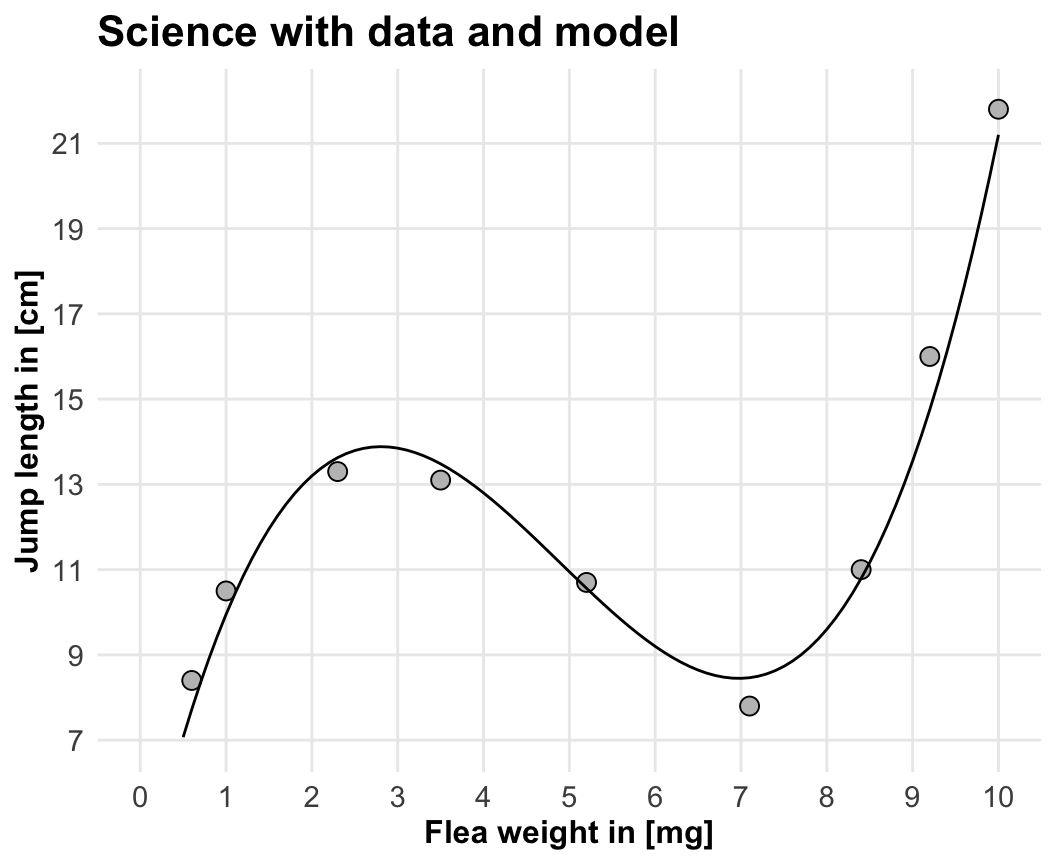
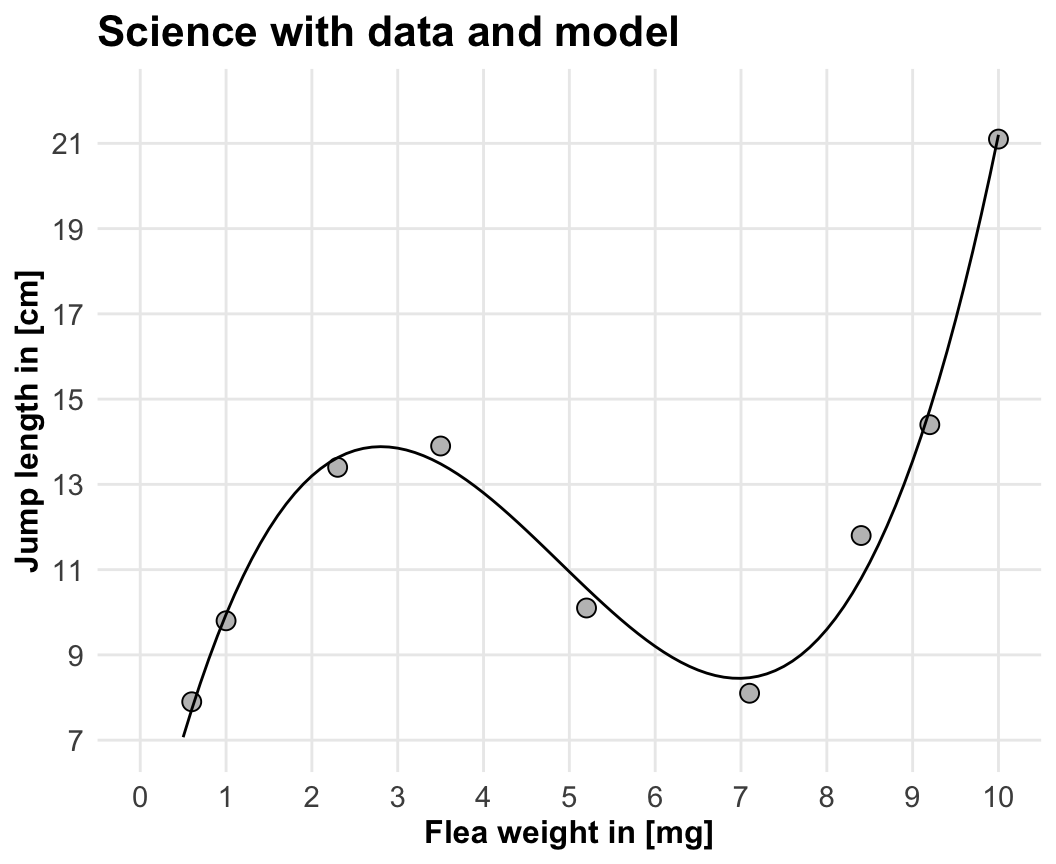
added

diff --git a/docs/chapter-02-what-is-data.html b/docs/chapter-02-what-is-data.html
@@ -301,7 +301,7 @@ window.Quarto = {
 </header>
 
 
-<p><em>Last modified on 27. October 2025 at 20:59:37</em></p>
+<p><em>Last modified on 28. October 2025 at 08:27:55</em></p>
 <blockquote class="blockquote">
 <p><em>“The limits of my language mean the limits of my world.” — Ludwig Wittgenstein</em></p>
 </blockquote>
@@ -377,8 +377,14 @@ Table&nbsp;2.1: Table of terms used in the statistical modelling. The terms in b
 <tr class="even">
 <td style="text-align: left;">Categorical <span class="math inline">\(x\)</span></td>
 <td style="text-align: center;"><span class="math inline">\(f_A\)</span></td>
-<td style="text-align: left;"><strong>factor A with levels A.1 to A.j</strong>, factorial variable, categorical variable</td>
+<td style="text-align: left;"><strong>factor A</strong>, factorial variable, categorical variable</td>
 <td style="text-align: left;"><em>The influencer is discrete, functioning as a grouping variable, such as an experimental group or a treatment.</em></td>
+</tr>
+<tr class="odd">
+<td style="text-align: left;">Categorical <span class="math inline">\(x\)</span></td>
+<td style="text-align: center;"><span class="math inline">\(A.1\)</span> to <span class="math inline">\(A.j\)</span></td>
+<td style="text-align: left;"><strong>levels</strong>, groups, treatment groups</td>
+<td style="text-align: left;"><em>The discrete groups included in one factor A.</em></td>
 </tr>
 </tbody>
 </table>
@@ -419,39 +425,39 @@ Table&nbsp;2.2: foo.
 <tbody>
 <tr class="odd">
 <td style="text-align: center;">0.6</td>
-<td style="text-align: center;">8.4</td>
+<td style="text-align: center;">7.9</td>
 </tr>
 <tr class="even">
 <td style="text-align: center;">1.0</td>
-<td style="text-align: center;">10.5</td>
+<td style="text-align: center;">9.8</td>
 </tr>
 <tr class="odd">
 <td style="text-align: center;">2.3</td>
-<td style="text-align: center;">13.3</td>
+<td style="text-align: center;">13.4</td>
 </tr>
 <tr class="even">
 <td style="text-align: center;">3.5</td>
-<td style="text-align: center;">13.1</td>
+<td style="text-align: center;">13.9</td>
 </tr>
 <tr class="odd">
 <td style="text-align: center;">5.2</td>
-<td style="text-align: center;">10.7</td>
+<td style="text-align: center;">10.1</td>
 </tr>
 <tr class="even">
 <td style="text-align: center;">7.1</td>
-<td style="text-align: center;">7.8</td>
+<td style="text-align: center;">8.1</td>
 </tr>
 <tr class="odd">
 <td style="text-align: center;">8.4</td>
-<td style="text-align: center;">11.0</td>
+<td style="text-align: center;">11.8</td>
 </tr>
 <tr class="even">
 <td style="text-align: center;">9.2</td>
-<td style="text-align: center;">16.0</td>
+<td style="text-align: center;">14.4</td>
 </tr>
 <tr class="odd">
 <td style="text-align: center;">10.0</td>
-<td style="text-align: center;">21.8</td>
+<td style="text-align: center;">21.1</td>
 </tr>
 </tbody>
 </table>
@@ -1060,119 +1066,120 @@ Figure&nbsp;2.2: foo.
 <span id="cb2-32"><a href="#cb2-32" aria-hidden="true" tabindex="-1"></a><span class="pp">|</span> Prediction <span class="pp">|</span> $x$ <span class="pp">|</span> **predictor**, predictive variable <span class="pp">|</span> *The influencer is used to predict the outcome.* <span class="pp">|</span></span>
 <span id="cb2-33"><a href="#cb2-33" aria-hidden="true" tabindex="-1"></a><span class="pp">|</span> Main effect <span class="pp">|</span> $x$ <span class="pp">|</span> **focal explanator**, **focal predictor**, focal variable <span class="pp">|</span> *In a model with multiple influencers, the focal variable is the variable of primary interest.* <span class="pp">|</span></span>
 <span id="cb2-34"><a href="#cb2-34" aria-hidden="true" tabindex="-1"></a><span class="pp">|</span> Continuous $x$ <span class="pp">|</span> $c$ <span class="pp">|</span> **covariate**, covariable <span class="pp">|</span> *The influencer is a numeric variable with continuous values.* <span class="pp">|</span></span>
-<span id="cb2-35"><a href="#cb2-35" aria-hidden="true" tabindex="-1"></a><span class="pp">|</span> Categorical $x$ <span class="pp">|</span> $f_A$ <span class="pp">|</span> **factor A with levels A.1 to A.j**, factorial variable, categorical variable <span class="pp">|</span> *The influencer is discrete, functioning as a grouping variable, such as an experimental group or a treatment.*  <span class="pp">|</span></span>
-<span id="cb2-36"><a href="#cb2-36" aria-hidden="true" tabindex="-1"></a></span>
-<span id="cb2-37"><a href="#cb2-37" aria-hidden="true" tabindex="-1"></a>: Table of terms used in the statistical modelling. The terms in bold are used here. Depending on the scientific background, the usage of these terms can vary widely.  {#tbl-names-regression tbl-colwidths="$$20, 5, 30, 45$$"}</span>
-<span id="cb2-38"><a href="#cb2-38" aria-hidden="true" tabindex="-1"></a></span>
-<span id="cb2-39"><a href="#cb2-39" aria-hidden="true" tabindex="-1"></a>A sentence why we use $y$ and not $x$ for mean and other stuff.</span>
-<span id="cb2-40"><a href="#cb2-40" aria-hidden="true" tabindex="-1"></a></span>
-<span id="cb2-41"><a href="#cb2-41" aria-hidden="true" tabindex="-1"></a><span class="fu">## R packages used</span></span>
-<span id="cb2-42"><a href="#cb2-42" aria-hidden="true" tabindex="-1"></a></span>
-<span id="cb2-43"><a href="#cb2-43" aria-hidden="true" tabindex="-1"></a><span class="fu">## Data</span></span>
-<span id="cb2-44"><a href="#cb2-44" aria-hidden="true" tabindex="-1"></a></span>
-<span id="cb2-47"><a href="#cb2-47" aria-hidden="true" tabindex="-1"></a><span class="in">```{r}</span></span>
-<span id="cb2-48"><a href="#cb2-48" aria-hidden="true" tabindex="-1"></a>jump_weight_tbl <span class="ot">&lt;-</span> <span class="fu">tibble</span>(<span class="at">x =</span> <span class="fu">c</span>(<span class="fl">0.6</span>, <span class="dv">1</span>, <span class="fl">2.3</span>, <span class="fl">3.5</span>, <span class="fl">5.2</span>, <span class="fl">7.1</span>, <span class="fl">8.4</span>, <span class="fl">9.2</span>, <span class="dv">10</span>),</span>
-<span id="cb2-49"><a href="#cb2-49" aria-hidden="true" tabindex="-1"></a>                          <span class="at">y =</span> <span class="fl">0.15</span><span class="sc">*</span>x<span class="sc">^</span><span class="dv">3</span> <span class="sc">-</span> <span class="fl">2.2</span><span class="sc">*</span>x<span class="sc">^</span><span class="dv">2</span> <span class="sc">+</span> <span class="fl">8.8</span><span class="sc">*</span>x <span class="sc">+</span> <span class="fl">3.2</span> <span class="sc">+</span> <span class="fu">rnorm</span>(<span class="dv">9</span>, <span class="dv">0</span>, <span class="fl">0.5</span>)) <span class="sc">|&gt;</span></span>
-<span id="cb2-50"><a href="#cb2-50" aria-hidden="true" tabindex="-1"></a>  <span class="fu">mutate_all</span>(round, <span class="dv">1</span>) <span class="sc">|&gt;</span> </span>
-<span id="cb2-51"><a href="#cb2-51" aria-hidden="true" tabindex="-1"></a>  <span class="fu">rename</span>(<span class="at">weight_mg =</span> x, <span class="at">jump_length_cm =</span> y)</span>
-<span id="cb2-52"><a href="#cb2-52" aria-hidden="true" tabindex="-1"></a><span class="in">```</span></span>
-<span id="cb2-53"><a href="#cb2-53" aria-hidden="true" tabindex="-1"></a></span>
-<span id="cb2-56"><a href="#cb2-56" aria-hidden="true" tabindex="-1"></a><span class="in">```{r}</span></span>
-<span id="cb2-57"><a href="#cb2-57" aria-hidden="true" tabindex="-1"></a><span class="co">#| echo: false</span></span>
-<span id="cb2-58"><a href="#cb2-58" aria-hidden="true" tabindex="-1"></a><span class="co">#| message: false</span></span>
-<span id="cb2-59"><a href="#cb2-59" aria-hidden="true" tabindex="-1"></a><span class="co">#| warning: false</span></span>
-<span id="cb2-60"><a href="#cb2-60" aria-hidden="true" tabindex="-1"></a><span class="co">#| label: tbl-02-jump-weight</span></span>
-<span id="cb2-61"><a href="#cb2-61" aria-hidden="true" tabindex="-1"></a><span class="co">#| tbl-cap: "foo."</span></span>
-<span id="cb2-62"><a href="#cb2-62" aria-hidden="true" tabindex="-1"></a></span>
-<span id="cb2-63"><a href="#cb2-63" aria-hidden="true" tabindex="-1"></a>jump_weight_tbl<span class="sc">|&gt;</span> </span>
-<span id="cb2-64"><a href="#cb2-64" aria-hidden="true" tabindex="-1"></a>  <span class="fu">kable</span>(<span class="at">align =</span> <span class="st">"c"</span>, <span class="st">"pipe"</span>)</span>
-<span id="cb2-65"><a href="#cb2-65" aria-hidden="true" tabindex="-1"></a><span class="in">```</span></span>
-<span id="cb2-66"><a href="#cb2-66" aria-hidden="true" tabindex="-1"></a></span>
-<span id="cb2-67"><a href="#cb2-67" aria-hidden="true" tabindex="-1"></a>@eq-jump-weight</span>
-<span id="cb2-68"><a href="#cb2-68" aria-hidden="true" tabindex="-1"></a></span>
-<span id="cb2-69"><a href="#cb2-69" aria-hidden="true" tabindex="-1"></a>$$</span>
-<span id="cb2-70"><a href="#cb2-70" aria-hidden="true" tabindex="-1"></a>y = 0.15\cdot x^3 - 2.2\cdot x^2 + 8.8 \cdot x + 3.2</span>
-<span id="cb2-71"><a href="#cb2-71" aria-hidden="true" tabindex="-1"></a>$$ {#eq-jump-weight}</span>
-<span id="cb2-72"><a href="#cb2-72" aria-hidden="true" tabindex="-1"></a></span>
-<span id="cb2-75"><a href="#cb2-75" aria-hidden="true" tabindex="-1"></a><span class="in">```{r}</span></span>
-<span id="cb2-76"><a href="#cb2-76" aria-hidden="true" tabindex="-1"></a><span class="co">#| message: false</span></span>
-<span id="cb2-77"><a href="#cb2-77" aria-hidden="true" tabindex="-1"></a><span class="co">#| echo: false</span></span>
-<span id="cb2-78"><a href="#cb2-78" aria-hidden="true" tabindex="-1"></a><span class="co">#| warning: false</span></span>
-<span id="cb2-79"><a href="#cb2-79" aria-hidden="true" tabindex="-1"></a><span class="co">#| fig-align: center</span></span>
-<span id="cb2-80"><a href="#cb2-80" aria-hidden="true" tabindex="-1"></a><span class="co">#| fig-height: 4</span></span>
-<span id="cb2-81"><a href="#cb2-81" aria-hidden="true" tabindex="-1"></a><span class="co">#| fig-width: 10</span></span>
-<span id="cb2-82"><a href="#cb2-82" aria-hidden="true" tabindex="-1"></a><span class="co">#| fig-cap: "foo."</span></span>
-<span id="cb2-83"><a href="#cb2-83" aria-hidden="true" tabindex="-1"></a><span class="co">#| label: fig-02-science-to-model</span></span>
-<span id="cb2-84"><a href="#cb2-84" aria-hidden="true" tabindex="-1"></a></span>
-<span id="cb2-85"><a href="#cb2-85" aria-hidden="true" tabindex="-1"></a>p1 <span class="ot">&lt;-</span> <span class="fu">ggplot</span>(jump_weight_tbl, <span class="fu">aes</span>(<span class="at">x =</span> weight_mg, <span class="at">y =</span> jump_length_cm)) <span class="sc">+</span></span>
-<span id="cb2-86"><a href="#cb2-86" aria-hidden="true" tabindex="-1"></a>  <span class="fu">theme_book</span>() <span class="sc">+</span></span>
-<span id="cb2-87"><a href="#cb2-87" aria-hidden="true" tabindex="-1"></a>  <span class="fu">scale_x_continuous</span>(<span class="at">breaks =</span> <span class="dv">0</span><span class="sc">:</span><span class="dv">10</span>, <span class="at">limits =</span> <span class="fu">c</span>(<span class="dv">0</span>, <span class="dv">10</span>)) <span class="sc">+</span></span>
-<span id="cb2-88"><a href="#cb2-88" aria-hidden="true" tabindex="-1"></a>  <span class="fu">scale_y_continuous</span>(<span class="at">breaks =</span> <span class="fu">seq</span>(<span class="dv">7</span>, <span class="dv">21</span>, <span class="dv">2</span>), <span class="at">limits =</span> <span class="fu">c</span>(<span class="dv">7</span>, <span class="dv">22</span>)) <span class="sc">+</span></span>
-<span id="cb2-89"><a href="#cb2-89" aria-hidden="true" tabindex="-1"></a>  <span class="fu">labs</span>(<span class="at">x =</span> <span class="st">"Flea weight in [mg]"</span>, <span class="at">y =</span> <span class="st">"Jump length in [cm]"</span>,</span>
-<span id="cb2-90"><a href="#cb2-90" aria-hidden="true" tabindex="-1"></a>       <span class="at">title =</span> <span class="st">"Science"</span>) <span class="sc">+</span></span>
-<span id="cb2-91"><a href="#cb2-91" aria-hidden="true" tabindex="-1"></a>  <span class="fu">theme</span>(<span class="at">axis.text =</span> <span class="fu">element_blank</span>())</span>
-<span id="cb2-92"><a href="#cb2-92" aria-hidden="true" tabindex="-1"></a></span>
-<span id="cb2-93"><a href="#cb2-93" aria-hidden="true" tabindex="-1"></a>p2 <span class="ot">&lt;-</span> <span class="fu">ggplot</span>(jump_weight_tbl, <span class="fu">aes</span>(<span class="at">x =</span> weight_mg, <span class="at">y =</span> jump_length_cm)) <span class="sc">+</span></span>
-<span id="cb2-94"><a href="#cb2-94" aria-hidden="true" tabindex="-1"></a>  <span class="fu">theme_book</span>() <span class="sc">+</span></span>
-<span id="cb2-95"><a href="#cb2-95" aria-hidden="true" tabindex="-1"></a>  <span class="fu">geom_point</span>() <span class="sc">+</span></span>
-<span id="cb2-96"><a href="#cb2-96" aria-hidden="true" tabindex="-1"></a>  <span class="fu">scale_x_continuous</span>(<span class="at">breaks =</span> <span class="dv">0</span><span class="sc">:</span><span class="dv">10</span>, <span class="at">limits =</span> <span class="fu">c</span>(<span class="dv">0</span>, <span class="dv">10</span>)) <span class="sc">+</span></span>
-<span id="cb2-97"><a href="#cb2-97" aria-hidden="true" tabindex="-1"></a>  <span class="fu">scale_y_continuous</span>(<span class="at">breaks =</span> <span class="fu">seq</span>(<span class="dv">7</span>, <span class="dv">21</span>, <span class="dv">2</span>), <span class="at">limits =</span> <span class="fu">c</span>(<span class="dv">7</span>, <span class="dv">22</span>)) <span class="sc">+</span></span>
-<span id="cb2-98"><a href="#cb2-98" aria-hidden="true" tabindex="-1"></a>  <span class="fu">labs</span>(<span class="at">x =</span> <span class="st">"weight_mg"</span>, <span class="at">y =</span> <span class="st">"jump_length_cm"</span>,</span>
-<span id="cb2-99"><a href="#cb2-99" aria-hidden="true" tabindex="-1"></a>       <span class="at">title =</span> <span class="st">"Data"</span>)</span>
-<span id="cb2-100"><a href="#cb2-100" aria-hidden="true" tabindex="-1"></a></span>
-<span id="cb2-101"><a href="#cb2-101" aria-hidden="true" tabindex="-1"></a>p3 <span class="ot">&lt;-</span> <span class="fu">ggplot</span>(jump_weight_tbl, <span class="fu">aes</span>(<span class="at">x =</span> weight_mg, <span class="at">y =</span> jump_length_cm)) <span class="sc">+</span></span>
-<span id="cb2-102"><a href="#cb2-102" aria-hidden="true" tabindex="-1"></a>  <span class="fu">theme_book</span>() <span class="sc">+</span></span>
-<span id="cb2-103"><a href="#cb2-103" aria-hidden="true" tabindex="-1"></a>  <span class="fu">geom_function</span>(<span class="at">fun =</span> \(x) <span class="fl">0.15</span><span class="sc">*</span>x<span class="sc">^</span><span class="dv">3</span> <span class="sc">-</span> <span class="fl">2.2</span><span class="sc">*</span>x<span class="sc">^</span><span class="dv">2</span> <span class="sc">+</span> <span class="fl">8.8</span><span class="sc">*</span>x <span class="sc">+</span> <span class="fl">3.2</span>,</span>
-<span id="cb2-104"><a href="#cb2-104" aria-hidden="true" tabindex="-1"></a>                <span class="at">size =</span> <span class="dv">1</span>) <span class="sc">+</span></span>
-<span id="cb2-105"><a href="#cb2-105" aria-hidden="true" tabindex="-1"></a>  <span class="fu">scale_x_continuous</span>(<span class="at">breaks =</span> <span class="dv">0</span><span class="sc">:</span><span class="dv">10</span>, <span class="at">limits =</span> <span class="fu">c</span>(<span class="dv">0</span>, <span class="dv">10</span>)) <span class="sc">+</span></span>
-<span id="cb2-106"><a href="#cb2-106" aria-hidden="true" tabindex="-1"></a>  <span class="fu">scale_y_continuous</span>(<span class="at">breaks =</span> <span class="fu">seq</span>(<span class="dv">7</span>, <span class="dv">21</span>, <span class="dv">2</span>), <span class="at">limits =</span> <span class="fu">c</span>(<span class="dv">7</span>, <span class="dv">22</span>)) <span class="sc">+</span></span>
-<span id="cb2-107"><a href="#cb2-107" aria-hidden="true" tabindex="-1"></a>  <span class="fu">labs</span>(<span class="at">x =</span> <span class="st">"Influencer (X)"</span>, <span class="at">y =</span> <span class="st">"Outcome (Y)"</span>,</span>
-<span id="cb2-108"><a href="#cb2-108" aria-hidden="true" tabindex="-1"></a>       <span class="at">title =</span> <span class="st">"Model"</span>) <span class="sc">+</span></span>
-<span id="cb2-109"><a href="#cb2-109" aria-hidden="true" tabindex="-1"></a>  <span class="fu">theme</span>(<span class="at">axis.text =</span> <span class="fu">element_blank</span>())</span>
-<span id="cb2-110"><a href="#cb2-110" aria-hidden="true" tabindex="-1"></a></span>
-<span id="cb2-111"><a href="#cb2-111" aria-hidden="true" tabindex="-1"></a>p1 <span class="sc">+</span> p2 <span class="sc">+</span> p3 <span class="sc">+</span></span>
-<span id="cb2-112"><a href="#cb2-112" aria-hidden="true" tabindex="-1"></a>  <span class="fu">plot_layout</span>(<span class="at">ncol =</span> <span class="dv">3</span>) <span class="sc">+</span></span>
-<span id="cb2-113"><a href="#cb2-113" aria-hidden="true" tabindex="-1"></a>  <span class="fu">plot_annotation</span>(<span class="at">tag_levels =</span> <span class="st">'A'</span>, <span class="at">tag_prefix =</span> <span class="st">'('</span>, <span class="at">tag_suffix =</span> <span class="st">')'</span>) <span class="sc">&amp;</span></span>
-<span id="cb2-114"><a href="#cb2-114" aria-hidden="true" tabindex="-1"></a>  <span class="fu">theme</span>(<span class="at">plot.tag =</span> <span class="fu">element_text</span>(<span class="at">size =</span> <span class="dv">16</span>, <span class="at">face =</span> <span class="st">"bold"</span>))</span>
-<span id="cb2-115"><a href="#cb2-115" aria-hidden="true" tabindex="-1"></a><span class="in">```</span></span>
-<span id="cb2-116"><a href="#cb2-116" aria-hidden="true" tabindex="-1"></a></span>
-<span id="cb2-119"><a href="#cb2-119" aria-hidden="true" tabindex="-1"></a><span class="in">```{r}</span></span>
-<span id="cb2-120"><a href="#cb2-120" aria-hidden="true" tabindex="-1"></a><span class="co">#| message: false</span></span>
-<span id="cb2-121"><a href="#cb2-121" aria-hidden="true" tabindex="-1"></a><span class="co">#| echo: false</span></span>
-<span id="cb2-122"><a href="#cb2-122" aria-hidden="true" tabindex="-1"></a><span class="co">#| warning: false</span></span>
-<span id="cb2-123"><a href="#cb2-123" aria-hidden="true" tabindex="-1"></a><span class="co">#| fig-align: center</span></span>
-<span id="cb2-124"><a href="#cb2-124" aria-hidden="true" tabindex="-1"></a><span class="co">#| fig-height: 4.5</span></span>
-<span id="cb2-125"><a href="#cb2-125" aria-hidden="true" tabindex="-1"></a><span class="co">#| fig-width: 5.5</span></span>
-<span id="cb2-126"><a href="#cb2-126" aria-hidden="true" tabindex="-1"></a><span class="co">#| fig-cap: "foo."</span></span>
-<span id="cb2-127"><a href="#cb2-127" aria-hidden="true" tabindex="-1"></a><span class="co">#| label: fig-02-science-with-model</span></span>
-<span id="cb2-128"><a href="#cb2-128" aria-hidden="true" tabindex="-1"></a></span>
-<span id="cb2-129"><a href="#cb2-129" aria-hidden="true" tabindex="-1"></a><span class="fu">ggplot</span>(jump_weight_tbl, <span class="fu">aes</span>(<span class="at">x =</span> weight_mg, <span class="at">y =</span> jump_length_cm)) <span class="sc">+</span></span>
-<span id="cb2-130"><a href="#cb2-130" aria-hidden="true" tabindex="-1"></a>  <span class="fu">theme_book</span>() <span class="sc">+</span></span>
-<span id="cb2-131"><a href="#cb2-131" aria-hidden="true" tabindex="-1"></a>  <span class="fu">geom_point</span>(<span class="at">size =</span> <span class="dv">3</span>, <span class="at">shape =</span> <span class="dv">21</span>, <span class="at">fill =</span> <span class="st">"gray75"</span>) <span class="sc">+</span></span>
-<span id="cb2-132"><a href="#cb2-132" aria-hidden="true" tabindex="-1"></a>  <span class="fu">geom_function</span>(<span class="at">fun =</span> \(x) <span class="fl">0.15</span><span class="sc">*</span>x<span class="sc">^</span><span class="dv">3</span> <span class="sc">-</span> <span class="fl">2.2</span><span class="sc">*</span>x<span class="sc">^</span><span class="dv">2</span> <span class="sc">+</span> <span class="fl">8.8</span><span class="sc">*</span>x <span class="sc">+</span> <span class="fl">3.2</span>) <span class="sc">+</span></span>
-<span id="cb2-133"><a href="#cb2-133" aria-hidden="true" tabindex="-1"></a>  <span class="fu">scale_x_continuous</span>(<span class="at">breaks =</span> <span class="dv">0</span><span class="sc">:</span><span class="dv">10</span>, <span class="at">limits =</span> <span class="fu">c</span>(<span class="dv">0</span>, <span class="dv">10</span>)) <span class="sc">+</span></span>
-<span id="cb2-134"><a href="#cb2-134" aria-hidden="true" tabindex="-1"></a>  <span class="fu">scale_y_continuous</span>(<span class="at">breaks =</span> <span class="fu">seq</span>(<span class="dv">7</span>, <span class="dv">21</span>, <span class="dv">2</span>), <span class="at">limits =</span> <span class="fu">c</span>(<span class="dv">7</span>, <span class="dv">22</span>)) <span class="sc">+</span></span>
-<span id="cb2-135"><a href="#cb2-135" aria-hidden="true" tabindex="-1"></a>  <span class="fu">labs</span>(<span class="at">x =</span> <span class="st">"Flea weight in [mg]"</span>, <span class="at">y =</span> <span class="st">"Jump length in [cm]"</span>,</span>
-<span id="cb2-136"><a href="#cb2-136" aria-hidden="true" tabindex="-1"></a>       <span class="at">title =</span> <span class="st">"Science with data and model"</span>) </span>
-<span id="cb2-137"><a href="#cb2-137" aria-hidden="true" tabindex="-1"></a><span class="in">```</span></span>
-<span id="cb2-138"><a href="#cb2-138" aria-hidden="true" tabindex="-1"></a></span>
-<span id="cb2-139"><a href="#cb2-139" aria-hidden="true" tabindex="-1"></a><span class="fu">## Alternatives</span></span>
-<span id="cb2-140"><a href="#cb2-140" aria-hidden="true" tabindex="-1"></a></span>
-<span id="cb2-141"><a href="#cb2-141" aria-hidden="true" tabindex="-1"></a>Further tutorials and R packages on XXX</span>
-<span id="cb2-142"><a href="#cb2-142" aria-hidden="true" tabindex="-1"></a></span>
-<span id="cb2-143"><a href="#cb2-143" aria-hidden="true" tabindex="-1"></a><span class="fu">## Glossary</span></span>
-<span id="cb2-144"><a href="#cb2-144" aria-hidden="true" tabindex="-1"></a></span>
-<span id="cb2-145"><a href="#cb2-145" aria-hidden="true" tabindex="-1"></a>term</span>
-<span id="cb2-146"><a href="#cb2-146" aria-hidden="true" tabindex="-1"></a></span>
-<span id="cb2-147"><a href="#cb2-147" aria-hidden="true" tabindex="-1"></a>:   what does it mean.</span>
-<span id="cb2-148"><a href="#cb2-148" aria-hidden="true" tabindex="-1"></a></span>
-<span id="cb2-149"><a href="#cb2-149" aria-hidden="true" tabindex="-1"></a><span class="fu">## The meaning of "Data Science" in this chapter.</span></span>
-<span id="cb2-150"><a href="#cb2-150" aria-hidden="true" tabindex="-1"></a></span>
-<span id="cb2-151"><a href="#cb2-151" aria-hidden="true" tabindex="-1"></a><span class="ss">-   </span>itemize with max. 5-6 words</span>
-<span id="cb2-152"><a href="#cb2-152" aria-hidden="true" tabindex="-1"></a></span>
-<span id="cb2-153"><a href="#cb2-153" aria-hidden="true" tabindex="-1"></a><span class="fu">## Summary</span></span>
-<span id="cb2-154"><a href="#cb2-154" aria-hidden="true" tabindex="-1"></a></span>
-<span id="cb2-155"><a href="#cb2-155" aria-hidden="true" tabindex="-1"></a><span class="fu">## References {.unnumbered}</span></span>
+<span id="cb2-35"><a href="#cb2-35" aria-hidden="true" tabindex="-1"></a><span class="pp">|</span> Categorical $x$ <span class="pp">|</span> $f_A$ <span class="pp">|</span> **factor A**, factorial variable, categorical variable <span class="pp">|</span> *The influencer is discrete, functioning as a grouping variable, such as an experimental group or a treatment.*  <span class="pp">|</span></span>
+<span id="cb2-36"><a href="#cb2-36" aria-hidden="true" tabindex="-1"></a><span class="pp">|</span> Categorical $x$ <span class="pp">|</span> $A.1$ to $A.j$ <span class="pp">|</span> **levels**, groups, treatment groups <span class="pp">|</span> *The discrete groups included in one factor A.*  <span class="pp">|</span></span>
+<span id="cb2-37"><a href="#cb2-37" aria-hidden="true" tabindex="-1"></a></span>
+<span id="cb2-38"><a href="#cb2-38" aria-hidden="true" tabindex="-1"></a>: Table of terms used in the statistical modelling. The terms in bold are used here. Depending on the scientific background, the usage of these terms can vary widely.  {#tbl-names-regression tbl-colwidths="$$20, 5, 30, 45$$"}</span>
+<span id="cb2-39"><a href="#cb2-39" aria-hidden="true" tabindex="-1"></a></span>
+<span id="cb2-40"><a href="#cb2-40" aria-hidden="true" tabindex="-1"></a>A sentence why we use $y$ and not $x$ for mean and other stuff.</span>
+<span id="cb2-41"><a href="#cb2-41" aria-hidden="true" tabindex="-1"></a></span>
+<span id="cb2-42"><a href="#cb2-42" aria-hidden="true" tabindex="-1"></a><span class="fu">## R packages used</span></span>
+<span id="cb2-43"><a href="#cb2-43" aria-hidden="true" tabindex="-1"></a></span>
+<span id="cb2-44"><a href="#cb2-44" aria-hidden="true" tabindex="-1"></a><span class="fu">## Data</span></span>
+<span id="cb2-45"><a href="#cb2-45" aria-hidden="true" tabindex="-1"></a></span>
+<span id="cb2-48"><a href="#cb2-48" aria-hidden="true" tabindex="-1"></a><span class="in">```{r}</span></span>
+<span id="cb2-49"><a href="#cb2-49" aria-hidden="true" tabindex="-1"></a>jump_weight_tbl <span class="ot">&lt;-</span> <span class="fu">tibble</span>(<span class="at">x =</span> <span class="fu">c</span>(<span class="fl">0.6</span>, <span class="dv">1</span>, <span class="fl">2.3</span>, <span class="fl">3.5</span>, <span class="fl">5.2</span>, <span class="fl">7.1</span>, <span class="fl">8.4</span>, <span class="fl">9.2</span>, <span class="dv">10</span>),</span>
+<span id="cb2-50"><a href="#cb2-50" aria-hidden="true" tabindex="-1"></a>                          <span class="at">y =</span> <span class="fl">0.15</span><span class="sc">*</span>x<span class="sc">^</span><span class="dv">3</span> <span class="sc">-</span> <span class="fl">2.2</span><span class="sc">*</span>x<span class="sc">^</span><span class="dv">2</span> <span class="sc">+</span> <span class="fl">8.8</span><span class="sc">*</span>x <span class="sc">+</span> <span class="fl">3.2</span> <span class="sc">+</span> <span class="fu">rnorm</span>(<span class="dv">9</span>, <span class="dv">0</span>, <span class="fl">0.5</span>)) <span class="sc">|&gt;</span></span>
+<span id="cb2-51"><a href="#cb2-51" aria-hidden="true" tabindex="-1"></a>  <span class="fu">mutate_all</span>(round, <span class="dv">1</span>) <span class="sc">|&gt;</span> </span>
+<span id="cb2-52"><a href="#cb2-52" aria-hidden="true" tabindex="-1"></a>  <span class="fu">rename</span>(<span class="at">weight_mg =</span> x, <span class="at">jump_length_cm =</span> y)</span>
+<span id="cb2-53"><a href="#cb2-53" aria-hidden="true" tabindex="-1"></a><span class="in">```</span></span>
+<span id="cb2-54"><a href="#cb2-54" aria-hidden="true" tabindex="-1"></a></span>
+<span id="cb2-57"><a href="#cb2-57" aria-hidden="true" tabindex="-1"></a><span class="in">```{r}</span></span>
+<span id="cb2-58"><a href="#cb2-58" aria-hidden="true" tabindex="-1"></a><span class="co">#| echo: false</span></span>
+<span id="cb2-59"><a href="#cb2-59" aria-hidden="true" tabindex="-1"></a><span class="co">#| message: false</span></span>
+<span id="cb2-60"><a href="#cb2-60" aria-hidden="true" tabindex="-1"></a><span class="co">#| warning: false</span></span>
+<span id="cb2-61"><a href="#cb2-61" aria-hidden="true" tabindex="-1"></a><span class="co">#| label: tbl-02-jump-weight</span></span>
+<span id="cb2-62"><a href="#cb2-62" aria-hidden="true" tabindex="-1"></a><span class="co">#| tbl-cap: "foo."</span></span>
+<span id="cb2-63"><a href="#cb2-63" aria-hidden="true" tabindex="-1"></a></span>
+<span id="cb2-64"><a href="#cb2-64" aria-hidden="true" tabindex="-1"></a>jump_weight_tbl<span class="sc">|&gt;</span> </span>
+<span id="cb2-65"><a href="#cb2-65" aria-hidden="true" tabindex="-1"></a>  <span class="fu">kable</span>(<span class="at">align =</span> <span class="st">"c"</span>, <span class="st">"pipe"</span>)</span>
+<span id="cb2-66"><a href="#cb2-66" aria-hidden="true" tabindex="-1"></a><span class="in">```</span></span>
+<span id="cb2-67"><a href="#cb2-67" aria-hidden="true" tabindex="-1"></a></span>
+<span id="cb2-68"><a href="#cb2-68" aria-hidden="true" tabindex="-1"></a>@eq-jump-weight</span>
+<span id="cb2-69"><a href="#cb2-69" aria-hidden="true" tabindex="-1"></a></span>
+<span id="cb2-70"><a href="#cb2-70" aria-hidden="true" tabindex="-1"></a>$$</span>
+<span id="cb2-71"><a href="#cb2-71" aria-hidden="true" tabindex="-1"></a>y = 0.15\cdot x^3 - 2.2\cdot x^2 + 8.8 \cdot x + 3.2</span>
+<span id="cb2-72"><a href="#cb2-72" aria-hidden="true" tabindex="-1"></a>$$ {#eq-jump-weight}</span>
+<span id="cb2-73"><a href="#cb2-73" aria-hidden="true" tabindex="-1"></a></span>
+<span id="cb2-76"><a href="#cb2-76" aria-hidden="true" tabindex="-1"></a><span class="in">```{r}</span></span>
+<span id="cb2-77"><a href="#cb2-77" aria-hidden="true" tabindex="-1"></a><span class="co">#| message: false</span></span>
+<span id="cb2-78"><a href="#cb2-78" aria-hidden="true" tabindex="-1"></a><span class="co">#| echo: false</span></span>
+<span id="cb2-79"><a href="#cb2-79" aria-hidden="true" tabindex="-1"></a><span class="co">#| warning: false</span></span>
+<span id="cb2-80"><a href="#cb2-80" aria-hidden="true" tabindex="-1"></a><span class="co">#| fig-align: center</span></span>
+<span id="cb2-81"><a href="#cb2-81" aria-hidden="true" tabindex="-1"></a><span class="co">#| fig-height: 4</span></span>
+<span id="cb2-82"><a href="#cb2-82" aria-hidden="true" tabindex="-1"></a><span class="co">#| fig-width: 10</span></span>
+<span id="cb2-83"><a href="#cb2-83" aria-hidden="true" tabindex="-1"></a><span class="co">#| fig-cap: "foo."</span></span>
+<span id="cb2-84"><a href="#cb2-84" aria-hidden="true" tabindex="-1"></a><span class="co">#| label: fig-02-science-to-model</span></span>
+<span id="cb2-85"><a href="#cb2-85" aria-hidden="true" tabindex="-1"></a></span>
+<span id="cb2-86"><a href="#cb2-86" aria-hidden="true" tabindex="-1"></a>p1 <span class="ot">&lt;-</span> <span class="fu">ggplot</span>(jump_weight_tbl, <span class="fu">aes</span>(<span class="at">x =</span> weight_mg, <span class="at">y =</span> jump_length_cm)) <span class="sc">+</span></span>
+<span id="cb2-87"><a href="#cb2-87" aria-hidden="true" tabindex="-1"></a>  <span class="fu">theme_book</span>() <span class="sc">+</span></span>
+<span id="cb2-88"><a href="#cb2-88" aria-hidden="true" tabindex="-1"></a>  <span class="fu">scale_x_continuous</span>(<span class="at">breaks =</span> <span class="dv">0</span><span class="sc">:</span><span class="dv">10</span>, <span class="at">limits =</span> <span class="fu">c</span>(<span class="dv">0</span>, <span class="dv">10</span>)) <span class="sc">+</span></span>
+<span id="cb2-89"><a href="#cb2-89" aria-hidden="true" tabindex="-1"></a>  <span class="fu">scale_y_continuous</span>(<span class="at">breaks =</span> <span class="fu">seq</span>(<span class="dv">7</span>, <span class="dv">21</span>, <span class="dv">2</span>), <span class="at">limits =</span> <span class="fu">c</span>(<span class="dv">7</span>, <span class="dv">22</span>)) <span class="sc">+</span></span>
+<span id="cb2-90"><a href="#cb2-90" aria-hidden="true" tabindex="-1"></a>  <span class="fu">labs</span>(<span class="at">x =</span> <span class="st">"Flea weight in [mg]"</span>, <span class="at">y =</span> <span class="st">"Jump length in [cm]"</span>,</span>
+<span id="cb2-91"><a href="#cb2-91" aria-hidden="true" tabindex="-1"></a>       <span class="at">title =</span> <span class="st">"Science"</span>) <span class="sc">+</span></span>
+<span id="cb2-92"><a href="#cb2-92" aria-hidden="true" tabindex="-1"></a>  <span class="fu">theme</span>(<span class="at">axis.text =</span> <span class="fu">element_blank</span>())</span>
+<span id="cb2-93"><a href="#cb2-93" aria-hidden="true" tabindex="-1"></a></span>
+<span id="cb2-94"><a href="#cb2-94" aria-hidden="true" tabindex="-1"></a>p2 <span class="ot">&lt;-</span> <span class="fu">ggplot</span>(jump_weight_tbl, <span class="fu">aes</span>(<span class="at">x =</span> weight_mg, <span class="at">y =</span> jump_length_cm)) <span class="sc">+</span></span>
+<span id="cb2-95"><a href="#cb2-95" aria-hidden="true" tabindex="-1"></a>  <span class="fu">theme_book</span>() <span class="sc">+</span></span>
+<span id="cb2-96"><a href="#cb2-96" aria-hidden="true" tabindex="-1"></a>  <span class="fu">geom_point</span>() <span class="sc">+</span></span>
+<span id="cb2-97"><a href="#cb2-97" aria-hidden="true" tabindex="-1"></a>  <span class="fu">scale_x_continuous</span>(<span class="at">breaks =</span> <span class="dv">0</span><span class="sc">:</span><span class="dv">10</span>, <span class="at">limits =</span> <span class="fu">c</span>(<span class="dv">0</span>, <span class="dv">10</span>)) <span class="sc">+</span></span>
+<span id="cb2-98"><a href="#cb2-98" aria-hidden="true" tabindex="-1"></a>  <span class="fu">scale_y_continuous</span>(<span class="at">breaks =</span> <span class="fu">seq</span>(<span class="dv">7</span>, <span class="dv">21</span>, <span class="dv">2</span>), <span class="at">limits =</span> <span class="fu">c</span>(<span class="dv">7</span>, <span class="dv">22</span>)) <span class="sc">+</span></span>
+<span id="cb2-99"><a href="#cb2-99" aria-hidden="true" tabindex="-1"></a>  <span class="fu">labs</span>(<span class="at">x =</span> <span class="st">"weight_mg"</span>, <span class="at">y =</span> <span class="st">"jump_length_cm"</span>,</span>
+<span id="cb2-100"><a href="#cb2-100" aria-hidden="true" tabindex="-1"></a>       <span class="at">title =</span> <span class="st">"Data"</span>)</span>
+<span id="cb2-101"><a href="#cb2-101" aria-hidden="true" tabindex="-1"></a></span>
+<span id="cb2-102"><a href="#cb2-102" aria-hidden="true" tabindex="-1"></a>p3 <span class="ot">&lt;-</span> <span class="fu">ggplot</span>(jump_weight_tbl, <span class="fu">aes</span>(<span class="at">x =</span> weight_mg, <span class="at">y =</span> jump_length_cm)) <span class="sc">+</span></span>
+<span id="cb2-103"><a href="#cb2-103" aria-hidden="true" tabindex="-1"></a>  <span class="fu">theme_book</span>() <span class="sc">+</span></span>
+<span id="cb2-104"><a href="#cb2-104" aria-hidden="true" tabindex="-1"></a>  <span class="fu">geom_function</span>(<span class="at">fun =</span> \(x) <span class="fl">0.15</span><span class="sc">*</span>x<span class="sc">^</span><span class="dv">3</span> <span class="sc">-</span> <span class="fl">2.2</span><span class="sc">*</span>x<span class="sc">^</span><span class="dv">2</span> <span class="sc">+</span> <span class="fl">8.8</span><span class="sc">*</span>x <span class="sc">+</span> <span class="fl">3.2</span>,</span>
+<span id="cb2-105"><a href="#cb2-105" aria-hidden="true" tabindex="-1"></a>                <span class="at">size =</span> <span class="dv">1</span>) <span class="sc">+</span></span>
+<span id="cb2-106"><a href="#cb2-106" aria-hidden="true" tabindex="-1"></a>  <span class="fu">scale_x_continuous</span>(<span class="at">breaks =</span> <span class="dv">0</span><span class="sc">:</span><span class="dv">10</span>, <span class="at">limits =</span> <span class="fu">c</span>(<span class="dv">0</span>, <span class="dv">10</span>)) <span class="sc">+</span></span>
+<span id="cb2-107"><a href="#cb2-107" aria-hidden="true" tabindex="-1"></a>  <span class="fu">scale_y_continuous</span>(<span class="at">breaks =</span> <span class="fu">seq</span>(<span class="dv">7</span>, <span class="dv">21</span>, <span class="dv">2</span>), <span class="at">limits =</span> <span class="fu">c</span>(<span class="dv">7</span>, <span class="dv">22</span>)) <span class="sc">+</span></span>
+<span id="cb2-108"><a href="#cb2-108" aria-hidden="true" tabindex="-1"></a>  <span class="fu">labs</span>(<span class="at">x =</span> <span class="st">"Influencer (X)"</span>, <span class="at">y =</span> <span class="st">"Outcome (Y)"</span>,</span>
+<span id="cb2-109"><a href="#cb2-109" aria-hidden="true" tabindex="-1"></a>       <span class="at">title =</span> <span class="st">"Model"</span>) <span class="sc">+</span></span>
+<span id="cb2-110"><a href="#cb2-110" aria-hidden="true" tabindex="-1"></a>  <span class="fu">theme</span>(<span class="at">axis.text =</span> <span class="fu">element_blank</span>())</span>
+<span id="cb2-111"><a href="#cb2-111" aria-hidden="true" tabindex="-1"></a></span>
+<span id="cb2-112"><a href="#cb2-112" aria-hidden="true" tabindex="-1"></a>p1 <span class="sc">+</span> p2 <span class="sc">+</span> p3 <span class="sc">+</span></span>
+<span id="cb2-113"><a href="#cb2-113" aria-hidden="true" tabindex="-1"></a>  <span class="fu">plot_layout</span>(<span class="at">ncol =</span> <span class="dv">3</span>) <span class="sc">+</span></span>
+<span id="cb2-114"><a href="#cb2-114" aria-hidden="true" tabindex="-1"></a>  <span class="fu">plot_annotation</span>(<span class="at">tag_levels =</span> <span class="st">'A'</span>, <span class="at">tag_prefix =</span> <span class="st">'('</span>, <span class="at">tag_suffix =</span> <span class="st">')'</span>) <span class="sc">&amp;</span></span>
+<span id="cb2-115"><a href="#cb2-115" aria-hidden="true" tabindex="-1"></a>  <span class="fu">theme</span>(<span class="at">plot.tag =</span> <span class="fu">element_text</span>(<span class="at">size =</span> <span class="dv">16</span>, <span class="at">face =</span> <span class="st">"bold"</span>))</span>
+<span id="cb2-116"><a href="#cb2-116" aria-hidden="true" tabindex="-1"></a><span class="in">```</span></span>
+<span id="cb2-117"><a href="#cb2-117" aria-hidden="true" tabindex="-1"></a></span>
+<span id="cb2-120"><a href="#cb2-120" aria-hidden="true" tabindex="-1"></a><span class="in">```{r}</span></span>
+<span id="cb2-121"><a href="#cb2-121" aria-hidden="true" tabindex="-1"></a><span class="co">#| message: false</span></span>
+<span id="cb2-122"><a href="#cb2-122" aria-hidden="true" tabindex="-1"></a><span class="co">#| echo: false</span></span>
+<span id="cb2-123"><a href="#cb2-123" aria-hidden="true" tabindex="-1"></a><span class="co">#| warning: false</span></span>
+<span id="cb2-124"><a href="#cb2-124" aria-hidden="true" tabindex="-1"></a><span class="co">#| fig-align: center</span></span>
+<span id="cb2-125"><a href="#cb2-125" aria-hidden="true" tabindex="-1"></a><span class="co">#| fig-height: 4.5</span></span>
+<span id="cb2-126"><a href="#cb2-126" aria-hidden="true" tabindex="-1"></a><span class="co">#| fig-width: 5.5</span></span>
+<span id="cb2-127"><a href="#cb2-127" aria-hidden="true" tabindex="-1"></a><span class="co">#| fig-cap: "foo."</span></span>
+<span id="cb2-128"><a href="#cb2-128" aria-hidden="true" tabindex="-1"></a><span class="co">#| label: fig-02-science-with-model</span></span>
+<span id="cb2-129"><a href="#cb2-129" aria-hidden="true" tabindex="-1"></a></span>
+<span id="cb2-130"><a href="#cb2-130" aria-hidden="true" tabindex="-1"></a><span class="fu">ggplot</span>(jump_weight_tbl, <span class="fu">aes</span>(<span class="at">x =</span> weight_mg, <span class="at">y =</span> jump_length_cm)) <span class="sc">+</span></span>
+<span id="cb2-131"><a href="#cb2-131" aria-hidden="true" tabindex="-1"></a>  <span class="fu">theme_book</span>() <span class="sc">+</span></span>
+<span id="cb2-132"><a href="#cb2-132" aria-hidden="true" tabindex="-1"></a>  <span class="fu">geom_point</span>(<span class="at">size =</span> <span class="dv">3</span>, <span class="at">shape =</span> <span class="dv">21</span>, <span class="at">fill =</span> <span class="st">"gray75"</span>) <span class="sc">+</span></span>
+<span id="cb2-133"><a href="#cb2-133" aria-hidden="true" tabindex="-1"></a>  <span class="fu">geom_function</span>(<span class="at">fun =</span> \(x) <span class="fl">0.15</span><span class="sc">*</span>x<span class="sc">^</span><span class="dv">3</span> <span class="sc">-</span> <span class="fl">2.2</span><span class="sc">*</span>x<span class="sc">^</span><span class="dv">2</span> <span class="sc">+</span> <span class="fl">8.8</span><span class="sc">*</span>x <span class="sc">+</span> <span class="fl">3.2</span>) <span class="sc">+</span></span>
+<span id="cb2-134"><a href="#cb2-134" aria-hidden="true" tabindex="-1"></a>  <span class="fu">scale_x_continuous</span>(<span class="at">breaks =</span> <span class="dv">0</span><span class="sc">:</span><span class="dv">10</span>, <span class="at">limits =</span> <span class="fu">c</span>(<span class="dv">0</span>, <span class="dv">10</span>)) <span class="sc">+</span></span>
+<span id="cb2-135"><a href="#cb2-135" aria-hidden="true" tabindex="-1"></a>  <span class="fu">scale_y_continuous</span>(<span class="at">breaks =</span> <span class="fu">seq</span>(<span class="dv">7</span>, <span class="dv">21</span>, <span class="dv">2</span>), <span class="at">limits =</span> <span class="fu">c</span>(<span class="dv">7</span>, <span class="dv">22</span>)) <span class="sc">+</span></span>
+<span id="cb2-136"><a href="#cb2-136" aria-hidden="true" tabindex="-1"></a>  <span class="fu">labs</span>(<span class="at">x =</span> <span class="st">"Flea weight in [mg]"</span>, <span class="at">y =</span> <span class="st">"Jump length in [cm]"</span>,</span>
+<span id="cb2-137"><a href="#cb2-137" aria-hidden="true" tabindex="-1"></a>       <span class="at">title =</span> <span class="st">"Science with data and model"</span>) </span>
+<span id="cb2-138"><a href="#cb2-138" aria-hidden="true" tabindex="-1"></a><span class="in">```</span></span>
+<span id="cb2-139"><a href="#cb2-139" aria-hidden="true" tabindex="-1"></a></span>
+<span id="cb2-140"><a href="#cb2-140" aria-hidden="true" tabindex="-1"></a><span class="fu">## Alternatives</span></span>
+<span id="cb2-141"><a href="#cb2-141" aria-hidden="true" tabindex="-1"></a></span>
+<span id="cb2-142"><a href="#cb2-142" aria-hidden="true" tabindex="-1"></a>Further tutorials and R packages on XXX</span>
+<span id="cb2-143"><a href="#cb2-143" aria-hidden="true" tabindex="-1"></a></span>
+<span id="cb2-144"><a href="#cb2-144" aria-hidden="true" tabindex="-1"></a><span class="fu">## Glossary</span></span>
+<span id="cb2-145"><a href="#cb2-145" aria-hidden="true" tabindex="-1"></a></span>
+<span id="cb2-146"><a href="#cb2-146" aria-hidden="true" tabindex="-1"></a>term</span>
+<span id="cb2-147"><a href="#cb2-147" aria-hidden="true" tabindex="-1"></a></span>
+<span id="cb2-148"><a href="#cb2-148" aria-hidden="true" tabindex="-1"></a>:   what does it mean.</span>
+<span id="cb2-149"><a href="#cb2-149" aria-hidden="true" tabindex="-1"></a></span>
+<span id="cb2-150"><a href="#cb2-150" aria-hidden="true" tabindex="-1"></a><span class="fu">## The meaning of "Data Science" in this chapter.</span></span>
+<span id="cb2-151"><a href="#cb2-151" aria-hidden="true" tabindex="-1"></a></span>
+<span id="cb2-152"><a href="#cb2-152" aria-hidden="true" tabindex="-1"></a><span class="ss">-   </span>itemize with max. 5-6 words</span>
+<span id="cb2-153"><a href="#cb2-153" aria-hidden="true" tabindex="-1"></a></span>
+<span id="cb2-154"><a href="#cb2-154" aria-hidden="true" tabindex="-1"></a><span class="fu">## Summary</span></span>
+<span id="cb2-155"><a href="#cb2-155" aria-hidden="true" tabindex="-1"></a></span>
+<span id="cb2-156"><a href="#cb2-156" aria-hidden="true" tabindex="-1"></a><span class="fu">## References {.unnumbered}</span></span>
 </code></pre></div><button title="Copy to Clipboard" class="code-copy-button" data-in-quarto-modal=""><i class="bi"></i></button></div>
 </div></div></div></div></div>
 </div> <!-- /content -->
